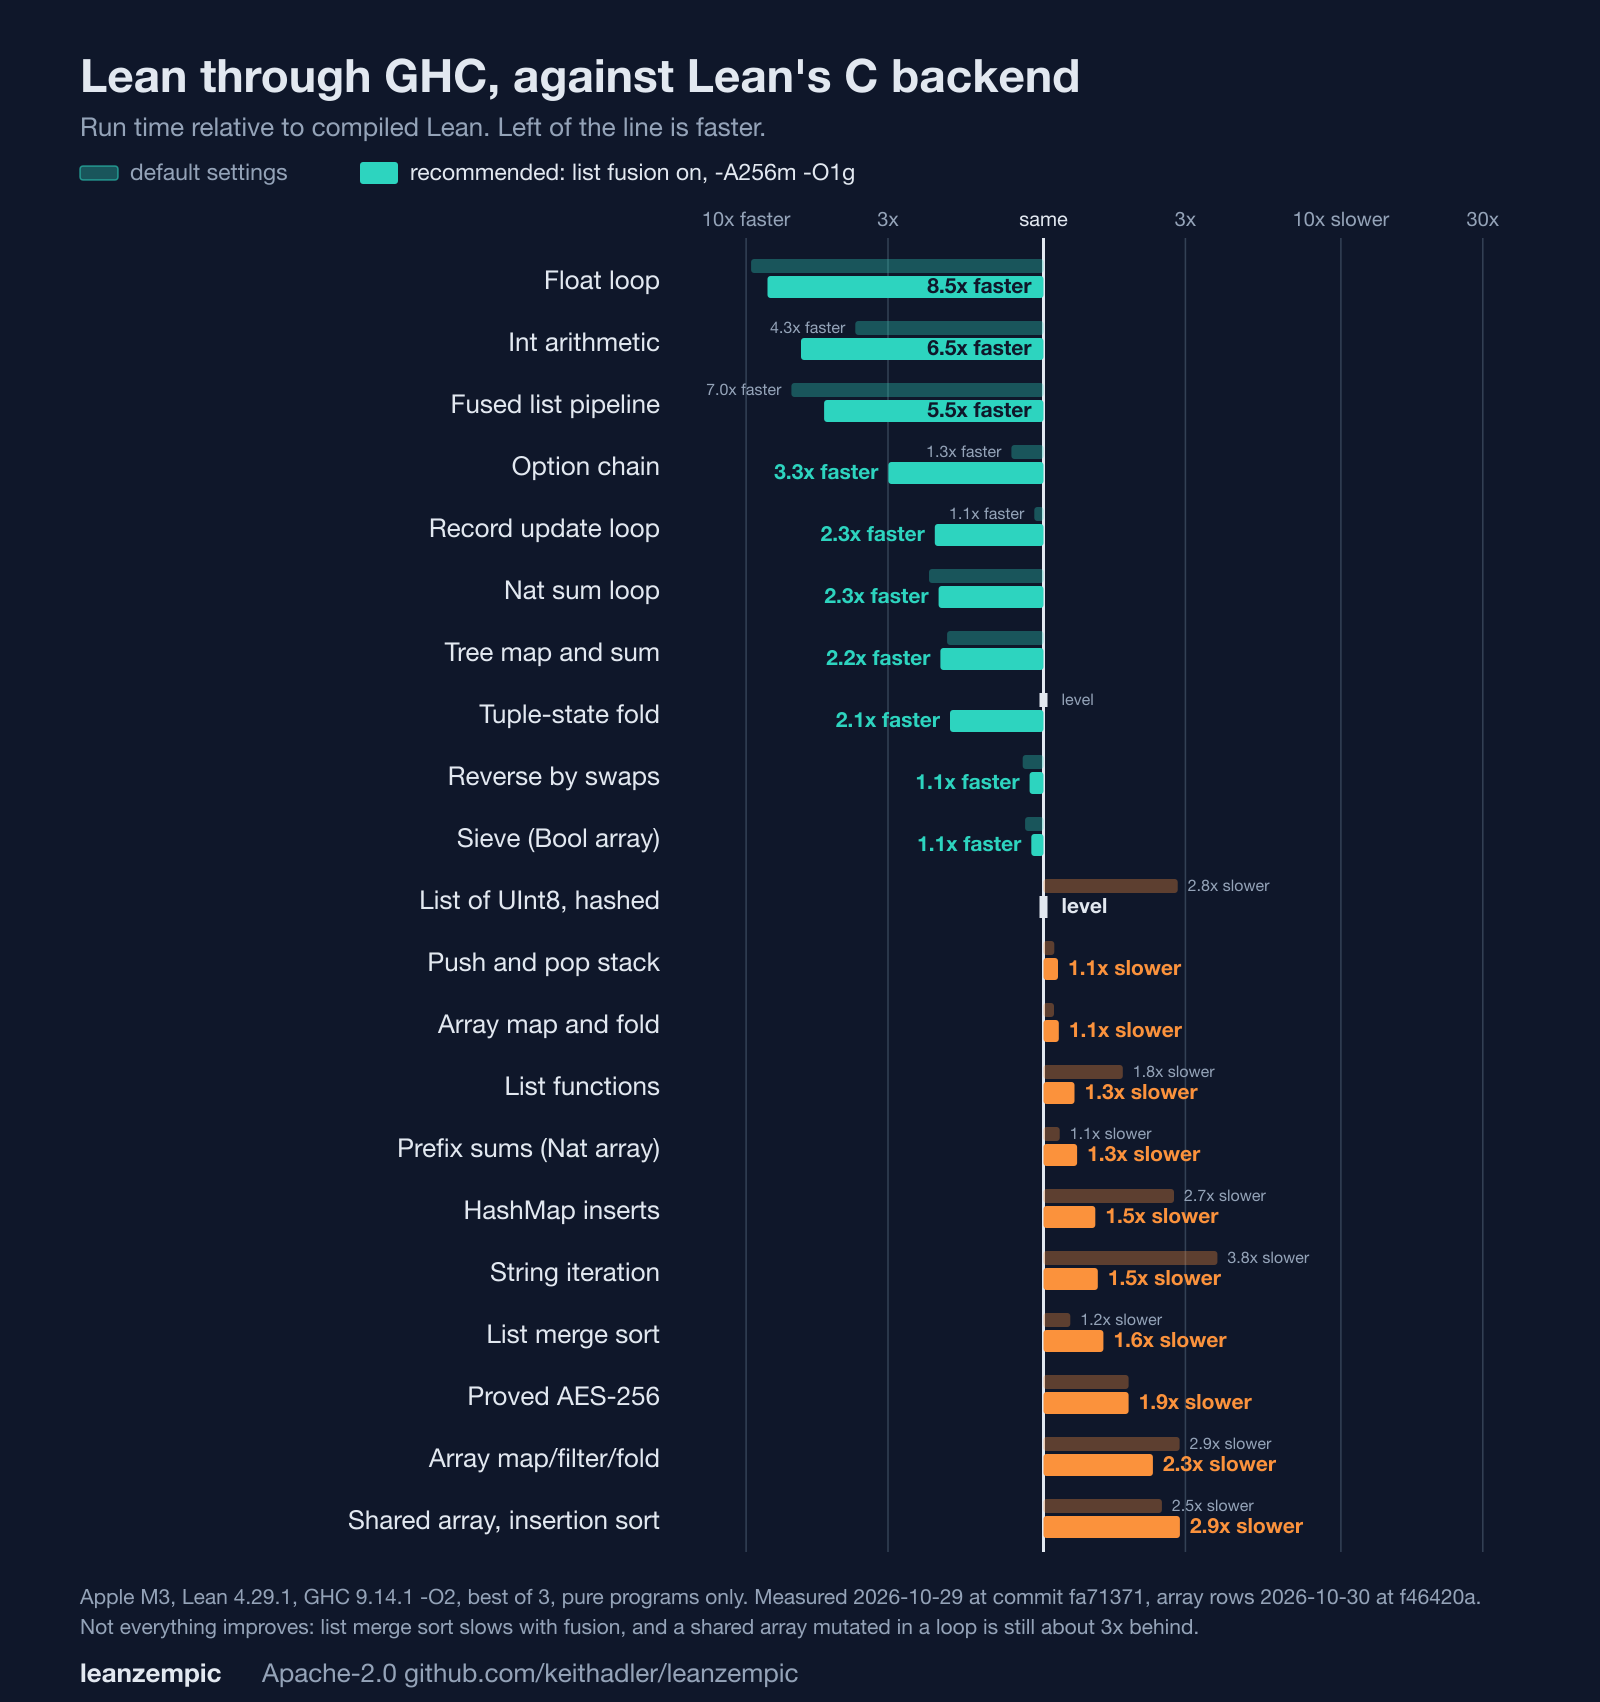
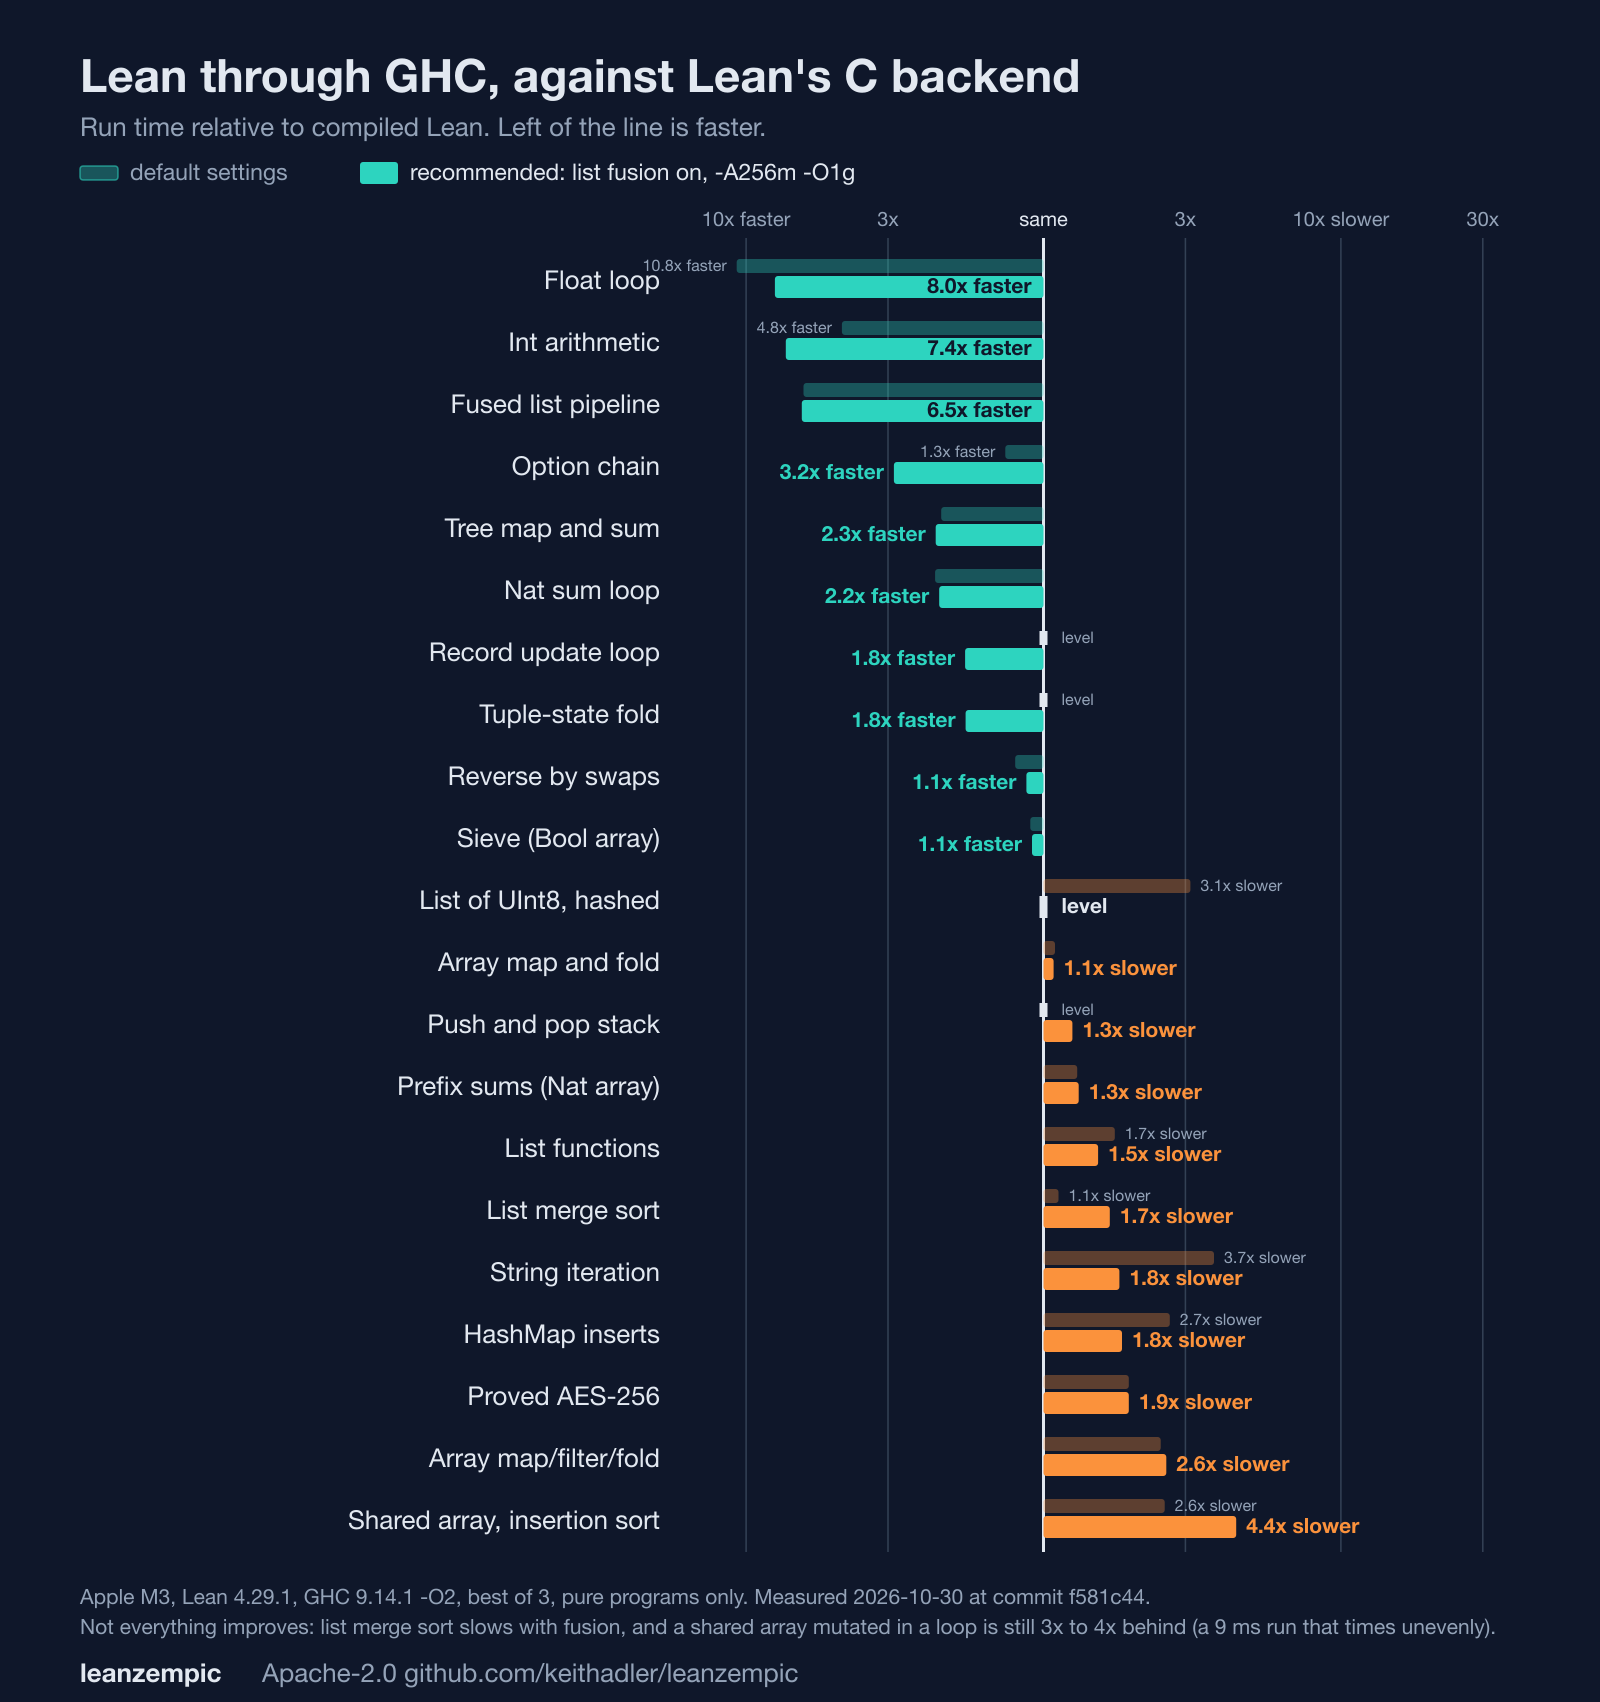
Chart refreshed at f581c44; array summary now says up to 4.4x

diff --git a/docs/make_chart.py b/docs/make_chart.py
@@ -63,7 +63,7 @@ stamp = f" Measured {meta['date']} at commit {meta['commit']}." if meta else ""
 if meta and meta.get("array_rows"):
     stamp = stamp[:-1] + f", array rows {meta['array_rows']['date']} at {meta['array_rows']['commit']}."
 o.append(f'<text x="80" y="{fy}" font-size="21" fill="{MUTE}">Apple M3, Lean 4.29.1, GHC 9.14.1 -O2, best of 3, pure programs only.{stamp}</text>')
-o.append(f'<text x="80" y="{fy+30}" font-size="21" fill="{MUTE}">Not everything improves: list merge sort slows with fusion, and a shared array mutated in a loop is still about 3x behind.</text>')
+o.append(f'<text x="80" y="{fy+30}" font-size="21" fill="{MUTE}">Not everything improves: list merge sort slows with fusion, and a shared array mutated in a loop is still 3x to 4x behind (a 9 ms run that times unevenly).</text>')
 o.append(f'<text x="80" y="{fy+78}" font-size="26" font-weight="700" fill="{FG}">leanzempic</text>')
 o.append(f'<text x="262" y="{fy+78}" font-size="26" fill="{MUTE}">Apache-2.0  github.com/keithadler/leanzempic</text>')
 o.append('</svg>')

diff --git a/README.md b/README.md
@@ -10,7 +10,7 @@ list fusion, unboxing) decides how your Lean program runs, instead of Lean's C b
   and GHC 9.14.1 only. CI runs the test suite on both, with a 52-program subset of the garden.
 * Honest one-line summary: up to 9x faster than Lean's C backend on numeric, `Int`, `Float`, record and
   fused-list code; with the recommended settings, between level and 3x slower on lists, tuples,
-  strings and hash maps (up to 4x slower with defaults); between 1.1x faster and 2.9x slower on arrays (loops that
+  strings and hash maps (up to 4x slower with defaults); between 1.1x faster and 4.4x slower on arrays (loops that
   update an unshared array in place are level or faster; the library `Array.map` and `filter`, and a shared array
   mutated in a loop, are what is left). See [Benchmarks](#benchmarks) for every number, including the losses.
 
